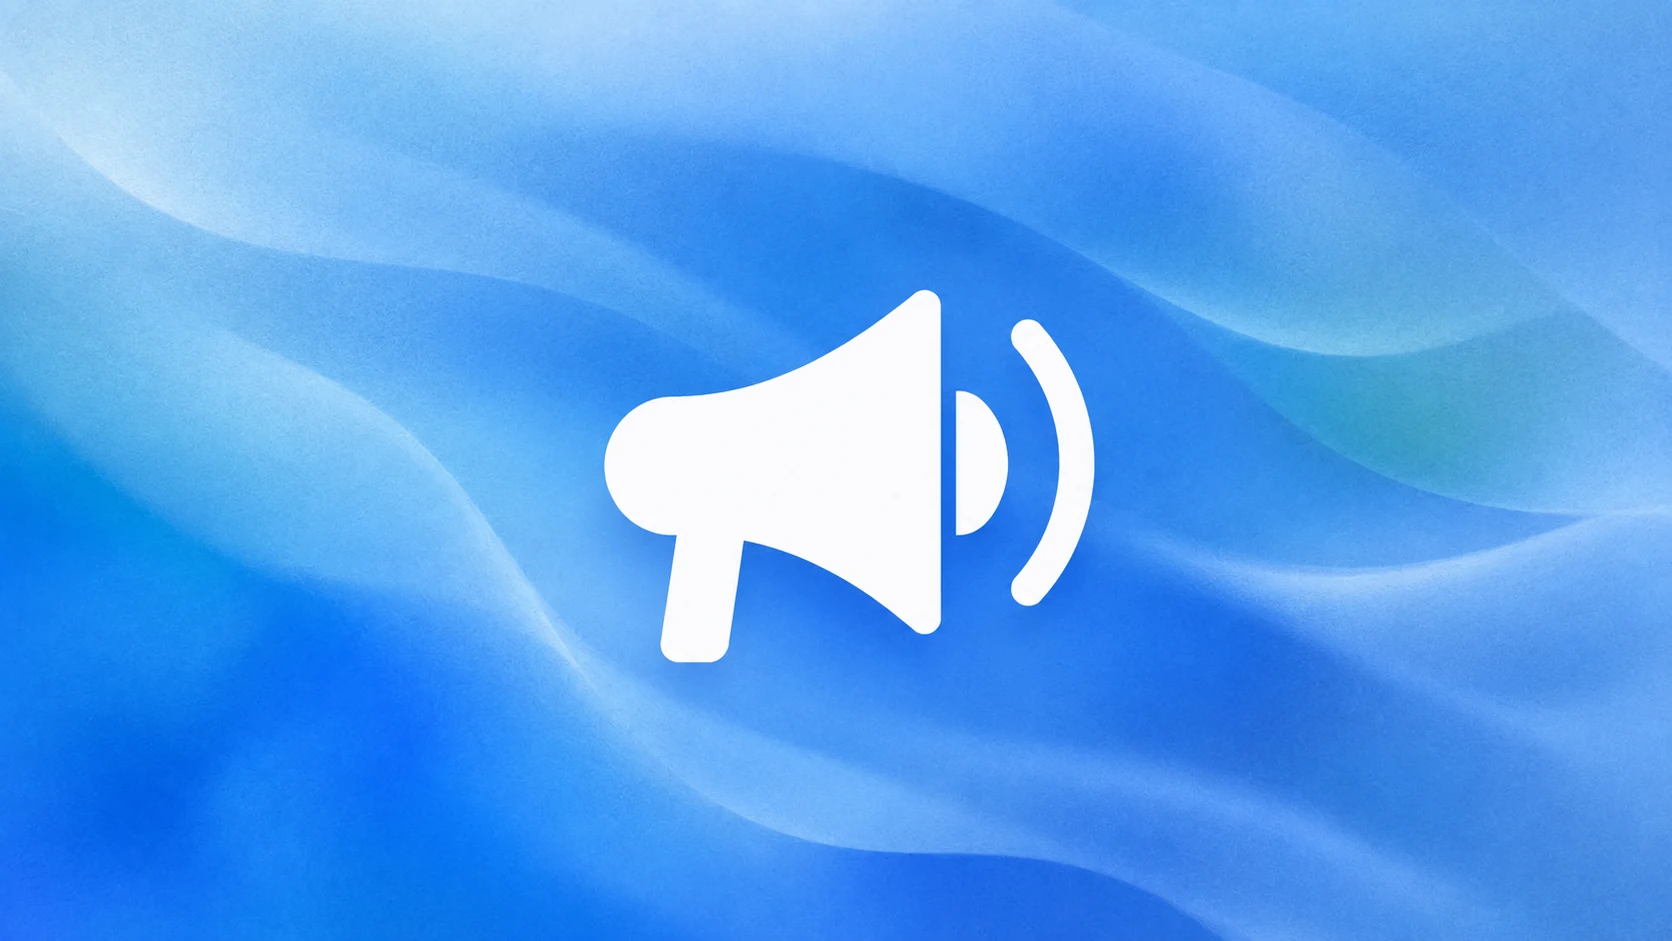
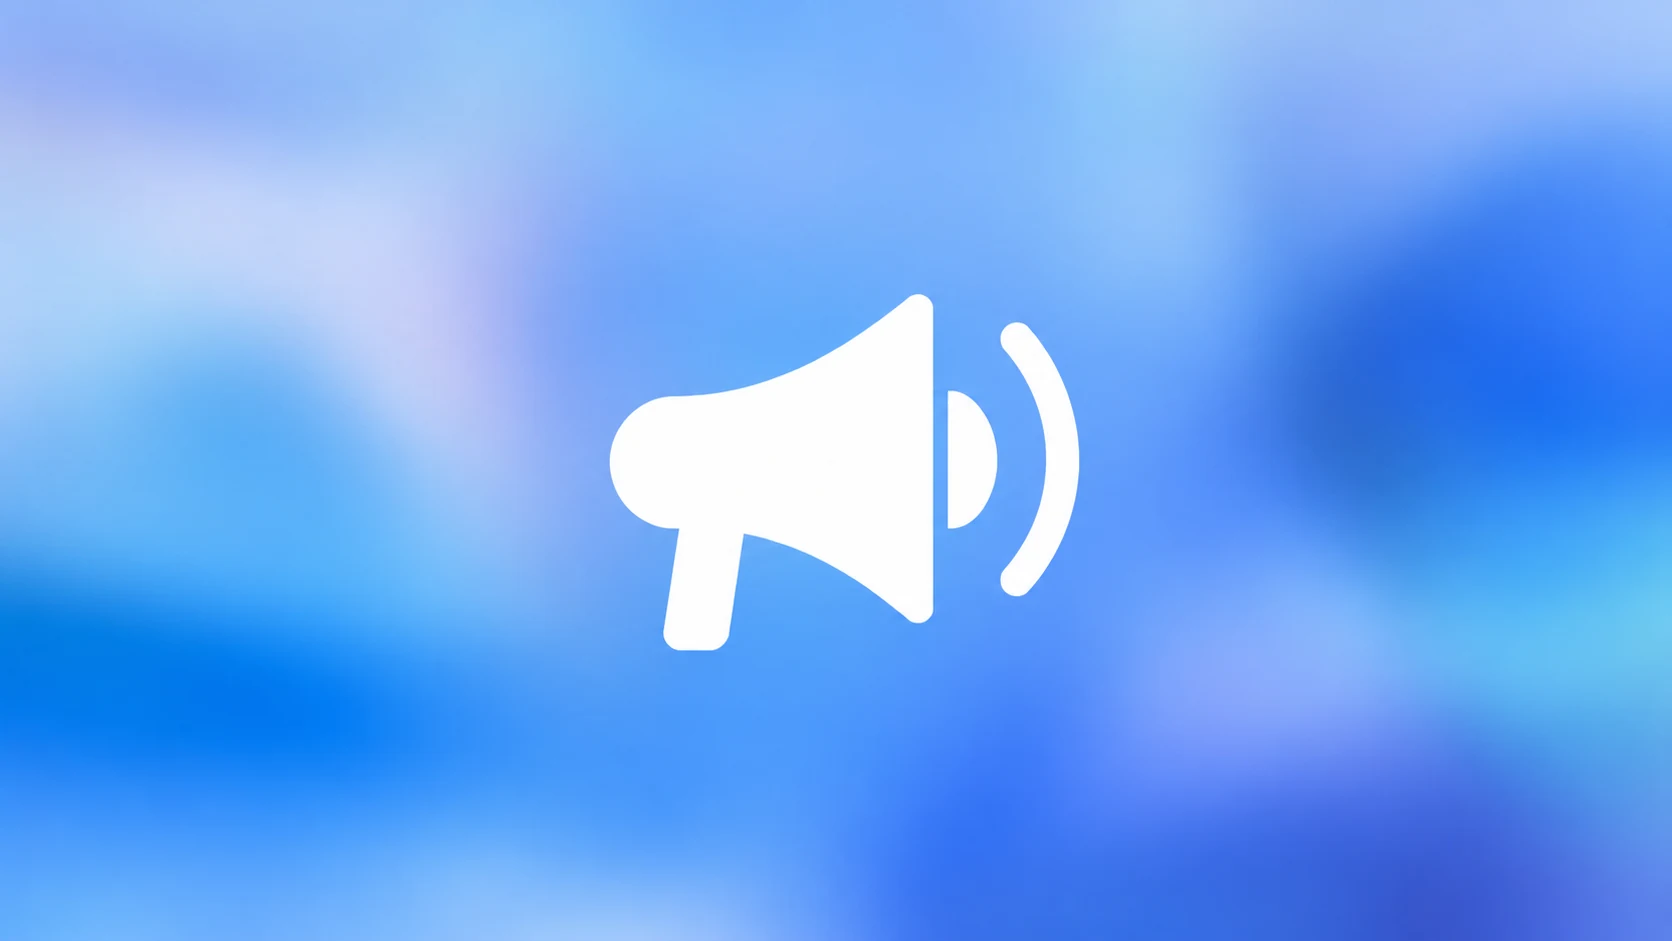
style: soften documentation artwork and color quickstart green

diff --git a/src/features/nonprofit-documentation/components/documentation-home.tsx b/src/features/nonprofit-documentation/components/documentation-home.tsx
@@ -79,7 +79,7 @@ export function DocumentationHome() {
           className="grid overflow-hidden rounded-2xl border border-zinc-800 bg-zinc-950 text-zinc-100 md:grid-cols-[minmax(0,1.1fr)_minmax(15rem,0.9fr)]"
         >
           <div className="p-4 sm:p-5">
-            <p className="text-xs font-medium text-zinc-400">Quickstart</p>
+            <p className="text-xs font-medium text-green-400">Quickstart</p>
             <h2
               id="quickstart-title"
               className="mt-3 text-lg font-semibold tracking-tight"

diff --git a/src/features/nonprofit-documentation/assets/soft-task-graphics.md b/src/features/nonprofit-documentation/assets/soft-task-graphics.md
@@ -1,0 +1,25 @@
+# Soft task-card artwork revision
+
+Generated with the built-in image tool on September 5, 2026. Each edit used the previous corresponding task-card asset plus the user's 4:57:31 PM reference screenshot. These assets replace the all-blue set: campaign stays blue, funding uses coral/peach, and resources uses lavender/rose. Background forms are strongly defocused with restrained fine grain; white graphics are flat, centered, and have no shadows. WebP encoding retains the generated composition.
+
+## campaign
+
+Use case: style-transfer. Image 1 is the current card artwork to REVISE. Image 2 is a style reference screenshot only. Deliver ONE finished landscape 16:9 editorial illustration edge to edge, not a website screenshot. The user rejected the current artwork because the backgrounds have distinct wave edges instead of being truly blurred, the grain is too coarse, all palettes are blue, and the icons have unwanted shadows. Correct those exact issues.
+BACKGROUND: Keep the blue family, using powder blue, cornflower and a little cyan. Use the screenshot's TOP LEFT abstract blue image as the softness reference. Heavily defocused abstract color masses seen THROUGH FROSTED GLASS. Blur the actual shapes until their boundaries dissolve over large distances: broad atmospheric soft color fields, a few amorphous blurred forms, absolutely NO crisp wave ridges, no sharp folds, no sculpted satin, no glossy objects, no visible glass object. Keep the center a medium tone so white is readable. Add only barely perceptible fine photographic grain, not coarse paper/fabric texture. The whole background must look much softer and more out of focus than image 1.
+FOREGROUND: preserve the subject and general arrangement of image 1: a white megaphone with a handle and broadcast arc. A simple solid PURE WHITE 2D graphic, precisely centered, about 25 percent of total canvas width and 40 percent of its height. Think flat white ink printed directly on the image, zero physical thickness. Edges of the white graphic stay crisp while the background is strongly blurred. Remove every trace of cast shadow, drop shadow, dark outline, gray shading, glow, halo, bevel, emboss, extrusion, or dark rim around the white shape. Any negative-space cutouts show the background. Absolutely flat uniform white, no internal texture or lighting and no depth cues on the graphic.
+No words, letters, numbers, typography, brands, watermark, signature, border, or baked-in rounded corners. Do not reproduce any logos or text from image 2.
+
+## funding
+
+Use case: style-transfer. Image 1 is the current card artwork to REVISE. Image 2 is a style reference screenshot only. Deliver ONE finished landscape 16:9 editorial illustration edge to edge, not a website screenshot. The user rejected the current artwork because the backgrounds have distinct wave edges instead of being truly blurred, the grain is too coarse, all palettes are blue, and the icons have unwanted shadows. Correct those exact issues.
+BACKGROUND: Replace the blue background palette with coral, pink, apricot and warm amber, inspired by the screenshot's TOP MIDDLE artwork, but much more defocused with no recognizable flower. Heavily defocused abstract color masses seen THROUGH FROSTED GLASS. Blur the actual shapes until their boundaries dissolve over large distances: broad atmospheric soft color fields, a few amorphous blurred forms, absolutely NO crisp wave ridges, no sharp folds, no sculpted satin, no glossy objects, no visible glass object. Keep the center a medium tone so white is readable. Add only barely perceptible fine photographic grain, not coarse paper/fabric texture. The whole background must look much softer and more out of focus than image 1.
+FOREGROUND: preserve the subject and general arrangement of image 1: a white funding-plan document with bar-chart cutouts and a small stack of coins. A simple solid PURE WHITE 2D graphic, precisely centered, about 25 percent of total canvas width and 40 percent of its height. Think flat white ink printed directly on the image, zero physical thickness. Edges of the white graphic stay crisp while the background is strongly blurred. Remove every trace of cast shadow, drop shadow, dark outline, gray shading, glow, halo, bevel, emboss, extrusion, or dark rim around the white shape. Any negative-space cutouts show the background. Absolutely flat uniform white, no internal texture or lighting and no depth cues on the graphic.
+No words, letters, numbers, typography, brands, watermark, signature, border, or baked-in rounded corners. Do not reproduce any logos or text from image 2.
+
+## resources
+
+Use case: style-transfer. Image 1 is the current card artwork to REVISE. Image 2 is a style reference screenshot only. Deliver ONE finished landscape 16:9 editorial illustration edge to edge, not a website screenshot. The user rejected the current artwork because the backgrounds have distinct wave edges instead of being truly blurred, the grain is too coarse, all palettes are blue, and the icons have unwanted shadows. Correct those exact issues.
+BACKGROUND: Replace the blue background palette with lavender, soft magenta, rose and a little cool periwinkle, inspired by the screenshot's TOP RIGHT blurred artwork. Heavily defocused abstract color masses seen THROUGH FROSTED GLASS. Blur the actual shapes until their boundaries dissolve over large distances: broad atmospheric soft color fields, a few amorphous blurred forms, absolutely NO crisp wave ridges, no sharp folds, no sculpted satin, no glossy objects, no visible glass object. Keep the center a medium tone so white is readable. Add only barely perceptible fine photographic grain, not coarse paper/fabric texture. The whole background must look much softer and more out of focus than image 1.
+FOREGROUND: preserve the subject and general arrangement of image 1: two white people silhouettes and one resource card. A simple solid PURE WHITE 2D graphic, precisely centered, about 25 percent of total canvas width and 40 percent of its height. Think flat white ink printed directly on the image, zero physical thickness. Edges of the white graphic stay crisp while the background is strongly blurred. Remove every trace of cast shadow, drop shadow, dark outline, gray shading, glow, halo, bevel, emboss, extrusion, or dark rim around the white shape. Any negative-space cutouts show the background. Absolutely flat uniform white, no internal texture or lighting and no depth cues on the graphic.
+No words, letters, numbers, typography, brands, watermark, signature, border, or baked-in rounded corners. Do not reproduce any logos or text from image 2.
+

diff --git a/docs/runlog/2026-09.md b/docs/runlog/2026-09.md
@@ -1190,3 +1190,35 @@ public impact profiles and root Find`.
 - Restored React Grab on port 3010. A fresh browser confirmed Home and CRM both
   return HTTP 200, all three images decode, Grab is enabled and activatable, and
   no page errors occur. Whitespace checks passed; saved a local checkpoint.
+
+
+2026-09-05 21:07 UTC - green Quickstart label and softer multicolor task artwork.
+
+- Continued the existing Documentation branch from `2ed62bf8` with a clean tree.
+  Traced the pasted `text-xs font-medium text-zinc-400` class through
+  DocumentationSurface to the actual Quickstart eyebrow in documentation-home.
+  Changed only that text color to Tailwind green-400. No linked portal surface;
+  color utilities come from the shared Tailwind import in globals.css.
+- Used the user's additional 4:57 PM screenshot and prior correction to replace
+  the three all-blue card composites using the built-in image tool. Campaign
+  stays blue; funding is coral/peach; resources is lavender/rose. Strong defocus
+  dissolves the previously sharp wave contours, reduces grain, and removes the
+  white graphics' cast shadows. Assets retain each destination's centered icon.
+  Exact prompts are in assets/soft-task-graphics.md. Three WebP files now total
+  72,846 bytes, down from 340,896 bytes, at the same 1672x941 resolution.
+- Static quality passed in 46.07 seconds. Rechecked the large-file guard after
+  final image encoding. Three affected responsive browser journeys passed in
+  29.9 seconds; intentionally refreshed only the three home screenshots for the
+  green eyebrow and artwork revision. Restored two unrelated article snapshots
+  whose only differences were one-channel-level raster noise (63/42 channels).
+- Manual light desktop/dark mobile review confirmed all three images decode,
+  card links are reachable, all four corners remain 10px, top/left/right insets
+  remain 8px, and no page errors occur. The green label has 11.18:1 contrast
+  against its consistently dark panel in both themes. Evidence is under
+  /tmp/coach-house-documentation-20260904/soft-art-*.
+- AST Graphify update completed: 18,623 nodes, 53,272 edges, 998 communities.
+  Restored React Grab on the owned port-3010 preview; a fresh browser confirmed
+  Grab enabled and activatable, three decoded task images, the green label,
+  Home/CRM HTTP 200, and no errors. Port 3000 and other worktrees are untouched.
+- This is local visual review; full release validation remains pending after
+  imagery refinements. No push, deployment, migration, or provider changes.

diff --git a/src/features/nonprofit-documentation/assets/README.md b/src/features/nonprofit-documentation/assets/README.md
@@ -2,8 +2,10 @@
 
 Generated with the built-in image tool using the user's two supplied September 5 screenshots as style references. These are original abstract backgrounds without the reference brands or typography. WebP encoding preserves the generated framing and composition.
 
-Task-card derivatives add centered white destination graphics over a frosted blue
-background. Their prompts are in [task-graphics.md](task-graphics.md).
+Task-card derivatives add centered flat white destination graphics without shadows
+over heavily blurred blue, coral/peach, and lavender/rose backgrounds. Current
+prompts are in [soft-task-graphics.md](soft-task-graphics.md); initial prompts
+remain in [task-graphics.md](task-graphics.md).
 
 | Asset | Use |
 | --- | --- |
@@ -11,8 +13,8 @@ background. Their prompts are in [task-graphics.md](task-graphics.md).
 | [abstract-rose.webp](abstract-rose.webp) | Best-practice heroes |
 | [abstract-warm.webp](abstract-warm.webp) | Resource heroes |
 | [task-campaign.webp](task-campaign.webp) | Campaign card: white megaphone on frosted blue |
-| [task-funding.webp](task-funding.webp) | Funding card: white planning chart and coins on frosted blue |
-| [task-resources.webp](task-resources.webp) | Directory card: white people and resource card on frosted blue |
+| [task-funding.webp](task-funding.webp) | Funding card: white planning chart and coins on blurred coral/peach |
+| [task-resources.webp](task-resources.webp) | Directory card: white people and resource card on blurred lavender/rose |
 
 ## Generation prompts
 

diff --git a/docs/plans/2026-09-04-documentation-release.md b/docs/plans/2026-09-04-documentation-release.md
@@ -60,7 +60,8 @@ sidebar and planner labels also use normal casing and tracking. The contents rai
 shares Core Documents' animated indicator and follows section links, scrolling,
 and browser history while respecting reduced motion.
 
-Home task cards use frosted blue artwork with flat white centered graphics:
+Home task cards use heavily blurred blue, coral/peach, and lavender/rose artwork
+with flat white centered graphics and no shadows:
 a megaphone for campaigns, a planning chart and coins for funding, and people
 with a resource card for the directory. The graphic stays inside the image asset.
 
@@ -103,6 +104,11 @@ The subsequent centered-white-graphic task cards passed final static quality in
 Only the three home baselines changed. Card geometry and link reachability were
 also checked at 390/1440px. The first run's unchanged CRM route returned normally
 after restarting the local preview; the clean rerun passed without route changes.
+
+The softer multicolor revision and green Quickstart label passed static quality
+in 46.07 seconds and the three affected browser journeys in 29.9 seconds. Only
+home baselines changed; desktop/mobile review confirmed 8px image insets, 10px
+corners, working links, and 11.18:1 contrast for the green label in both themes.
 
 Image geometry, keyboard destinations, and React Grab ownership were verified
 separately. The header-search pass also checked icon containment, Login adjacency,

diff --git a/src/features/nonprofit-documentation/README.md b/src/features/nonprofit-documentation/README.md
@@ -35,10 +35,10 @@
 - Article, tool, and resource headers share `DocumentationPageHeader`, with four
   rounded image corners and an 8px inset. Headers use the abstract artwork family:
   blue for starting/building, rose for best practices, and warm yellow/peach for
-  resources. Task cards use frosted blue derivatives with a centered flat white
-  graphic matching the destination: megaphone for campaigns, chart and coins for
-  funding, and people/resource cards for the directory. Preserve soft folds,
-  diffuse light, fine grain, and clear white-on-blue contrast at card size.
+  resources. Task cards use blurred blue, coral/peach, and lavender/rose backgrounds
+  with a centered flat white graphic matching the destination: megaphone for campaigns, chart and coins for
+  funding, and people/resource cards for the directory. Preserve strongly defocused
+  color fields, restrained fine grain, and readable white graphics without shadows.
   Use original raster artwork without lettering or logos. Generated assets and
   exact prompts are documented in [assets/README.md](assets/README.md).
 - Contents navigation uses `SectionRailIndicator`, shared with Core Documents.
